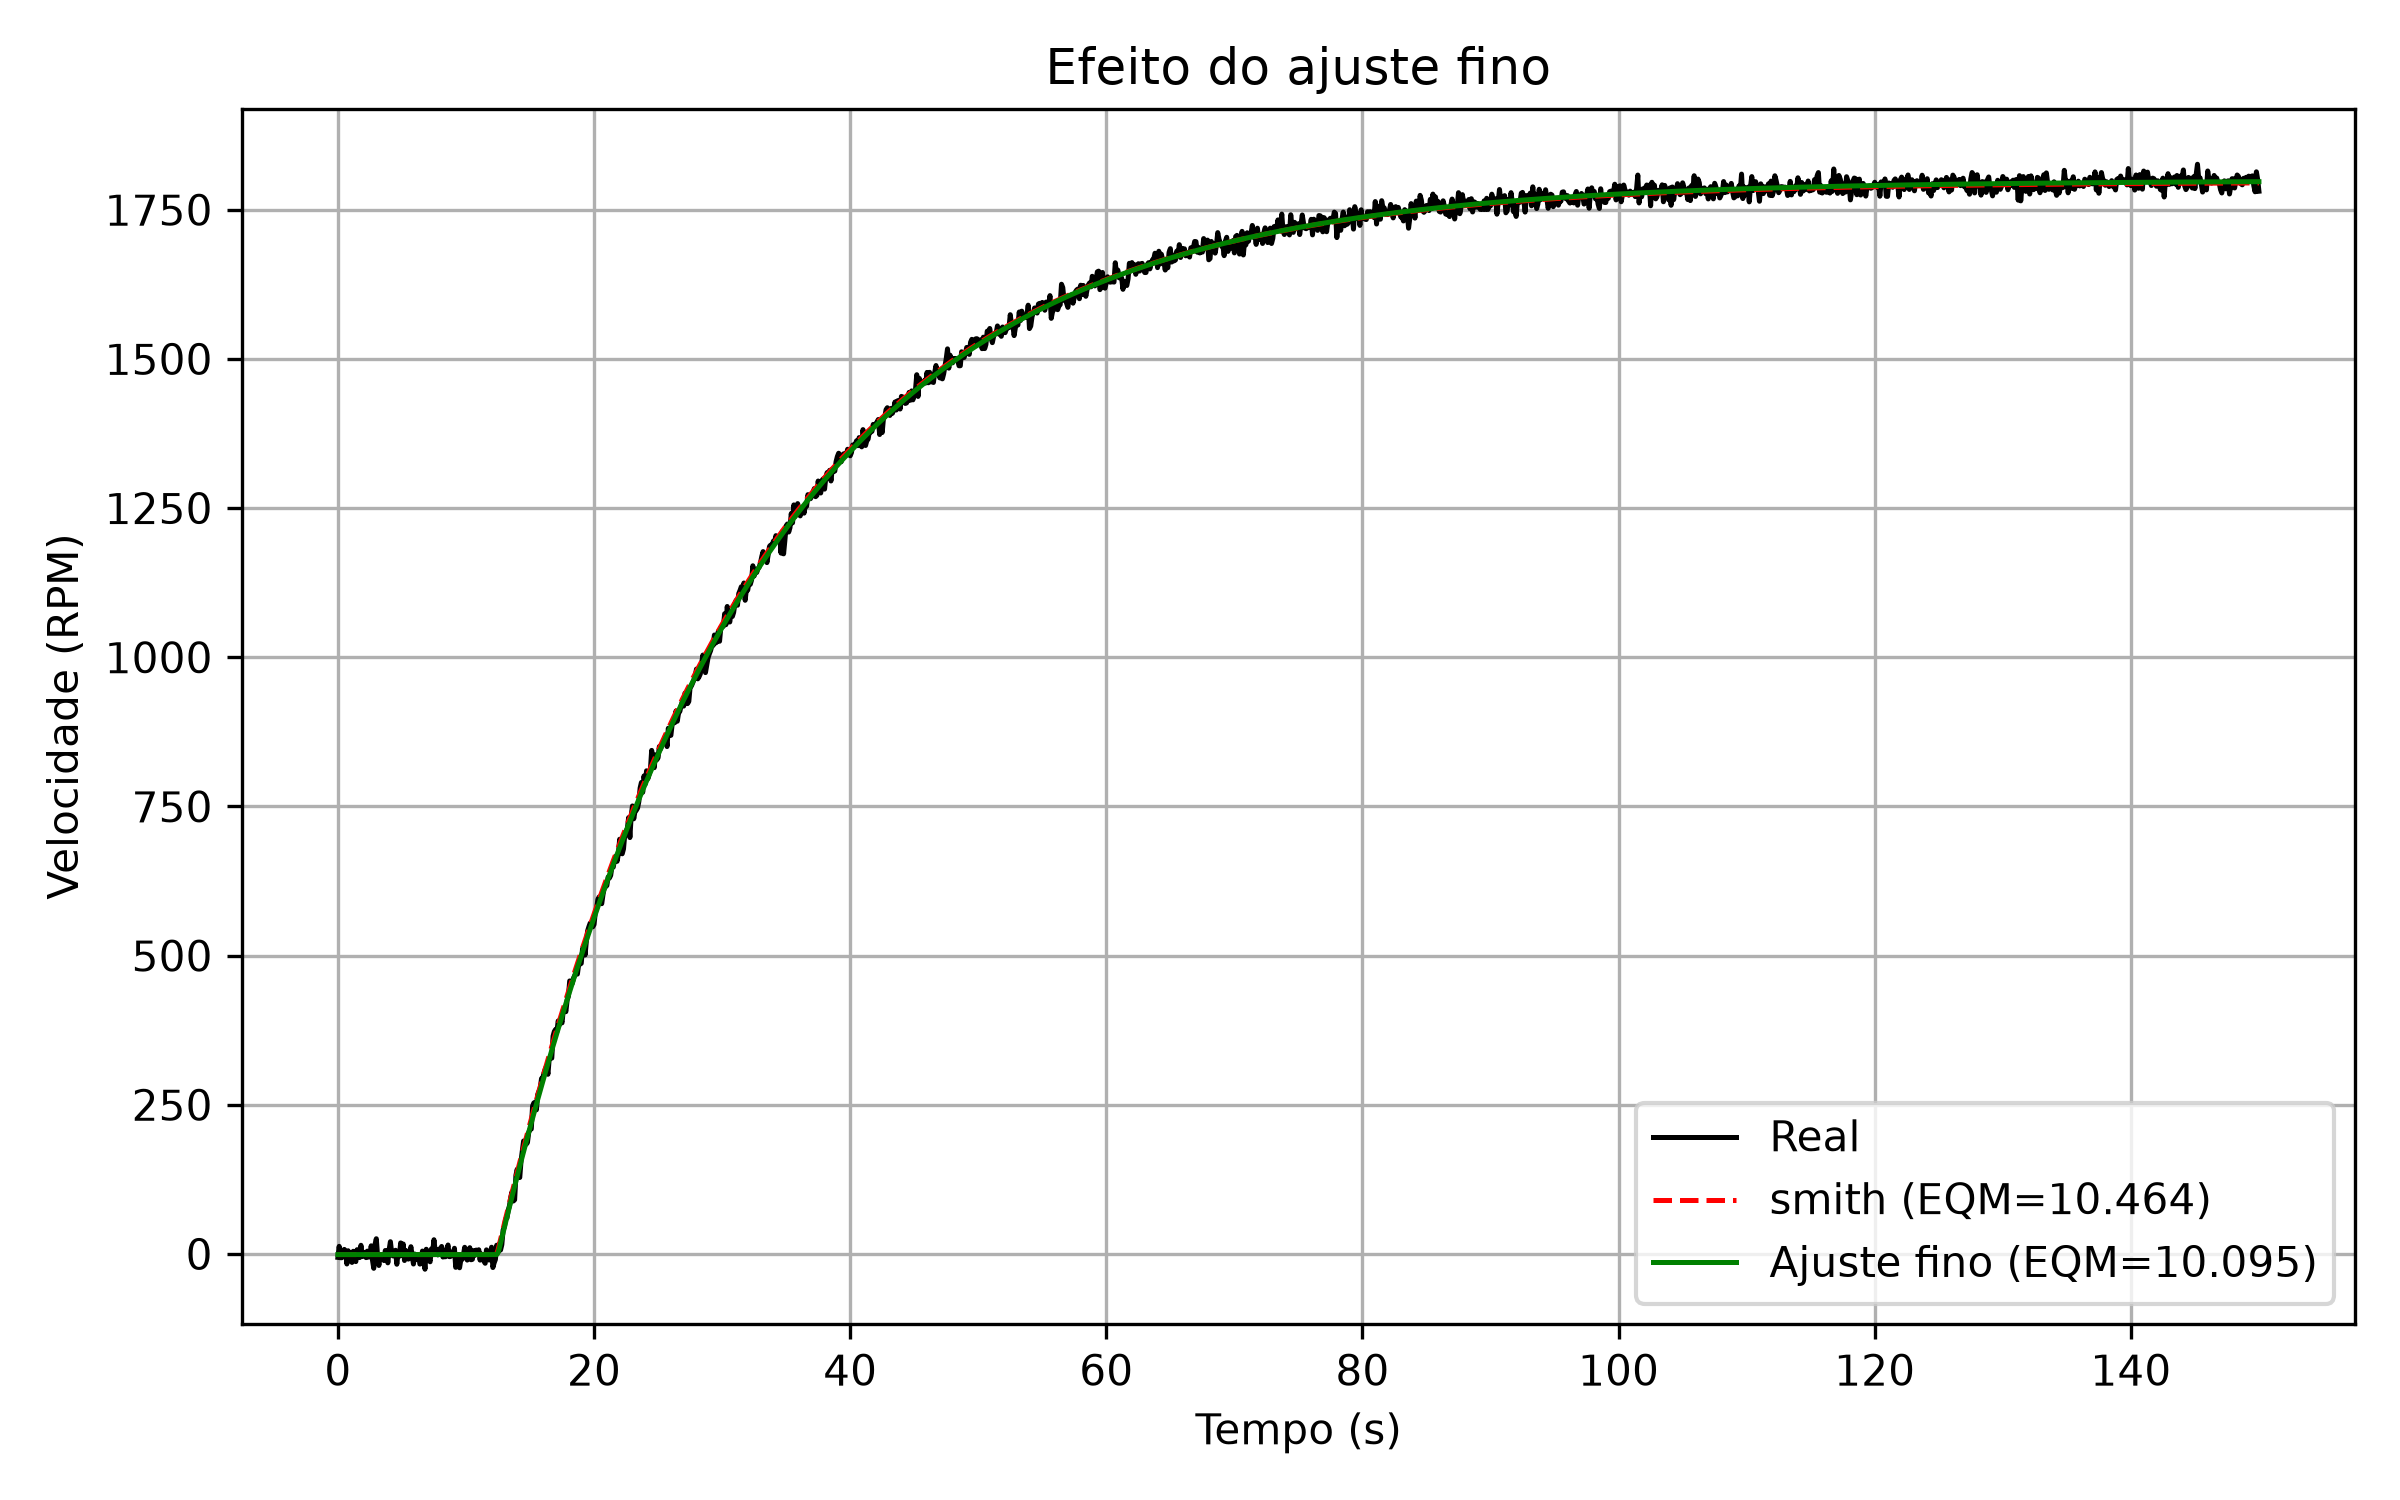
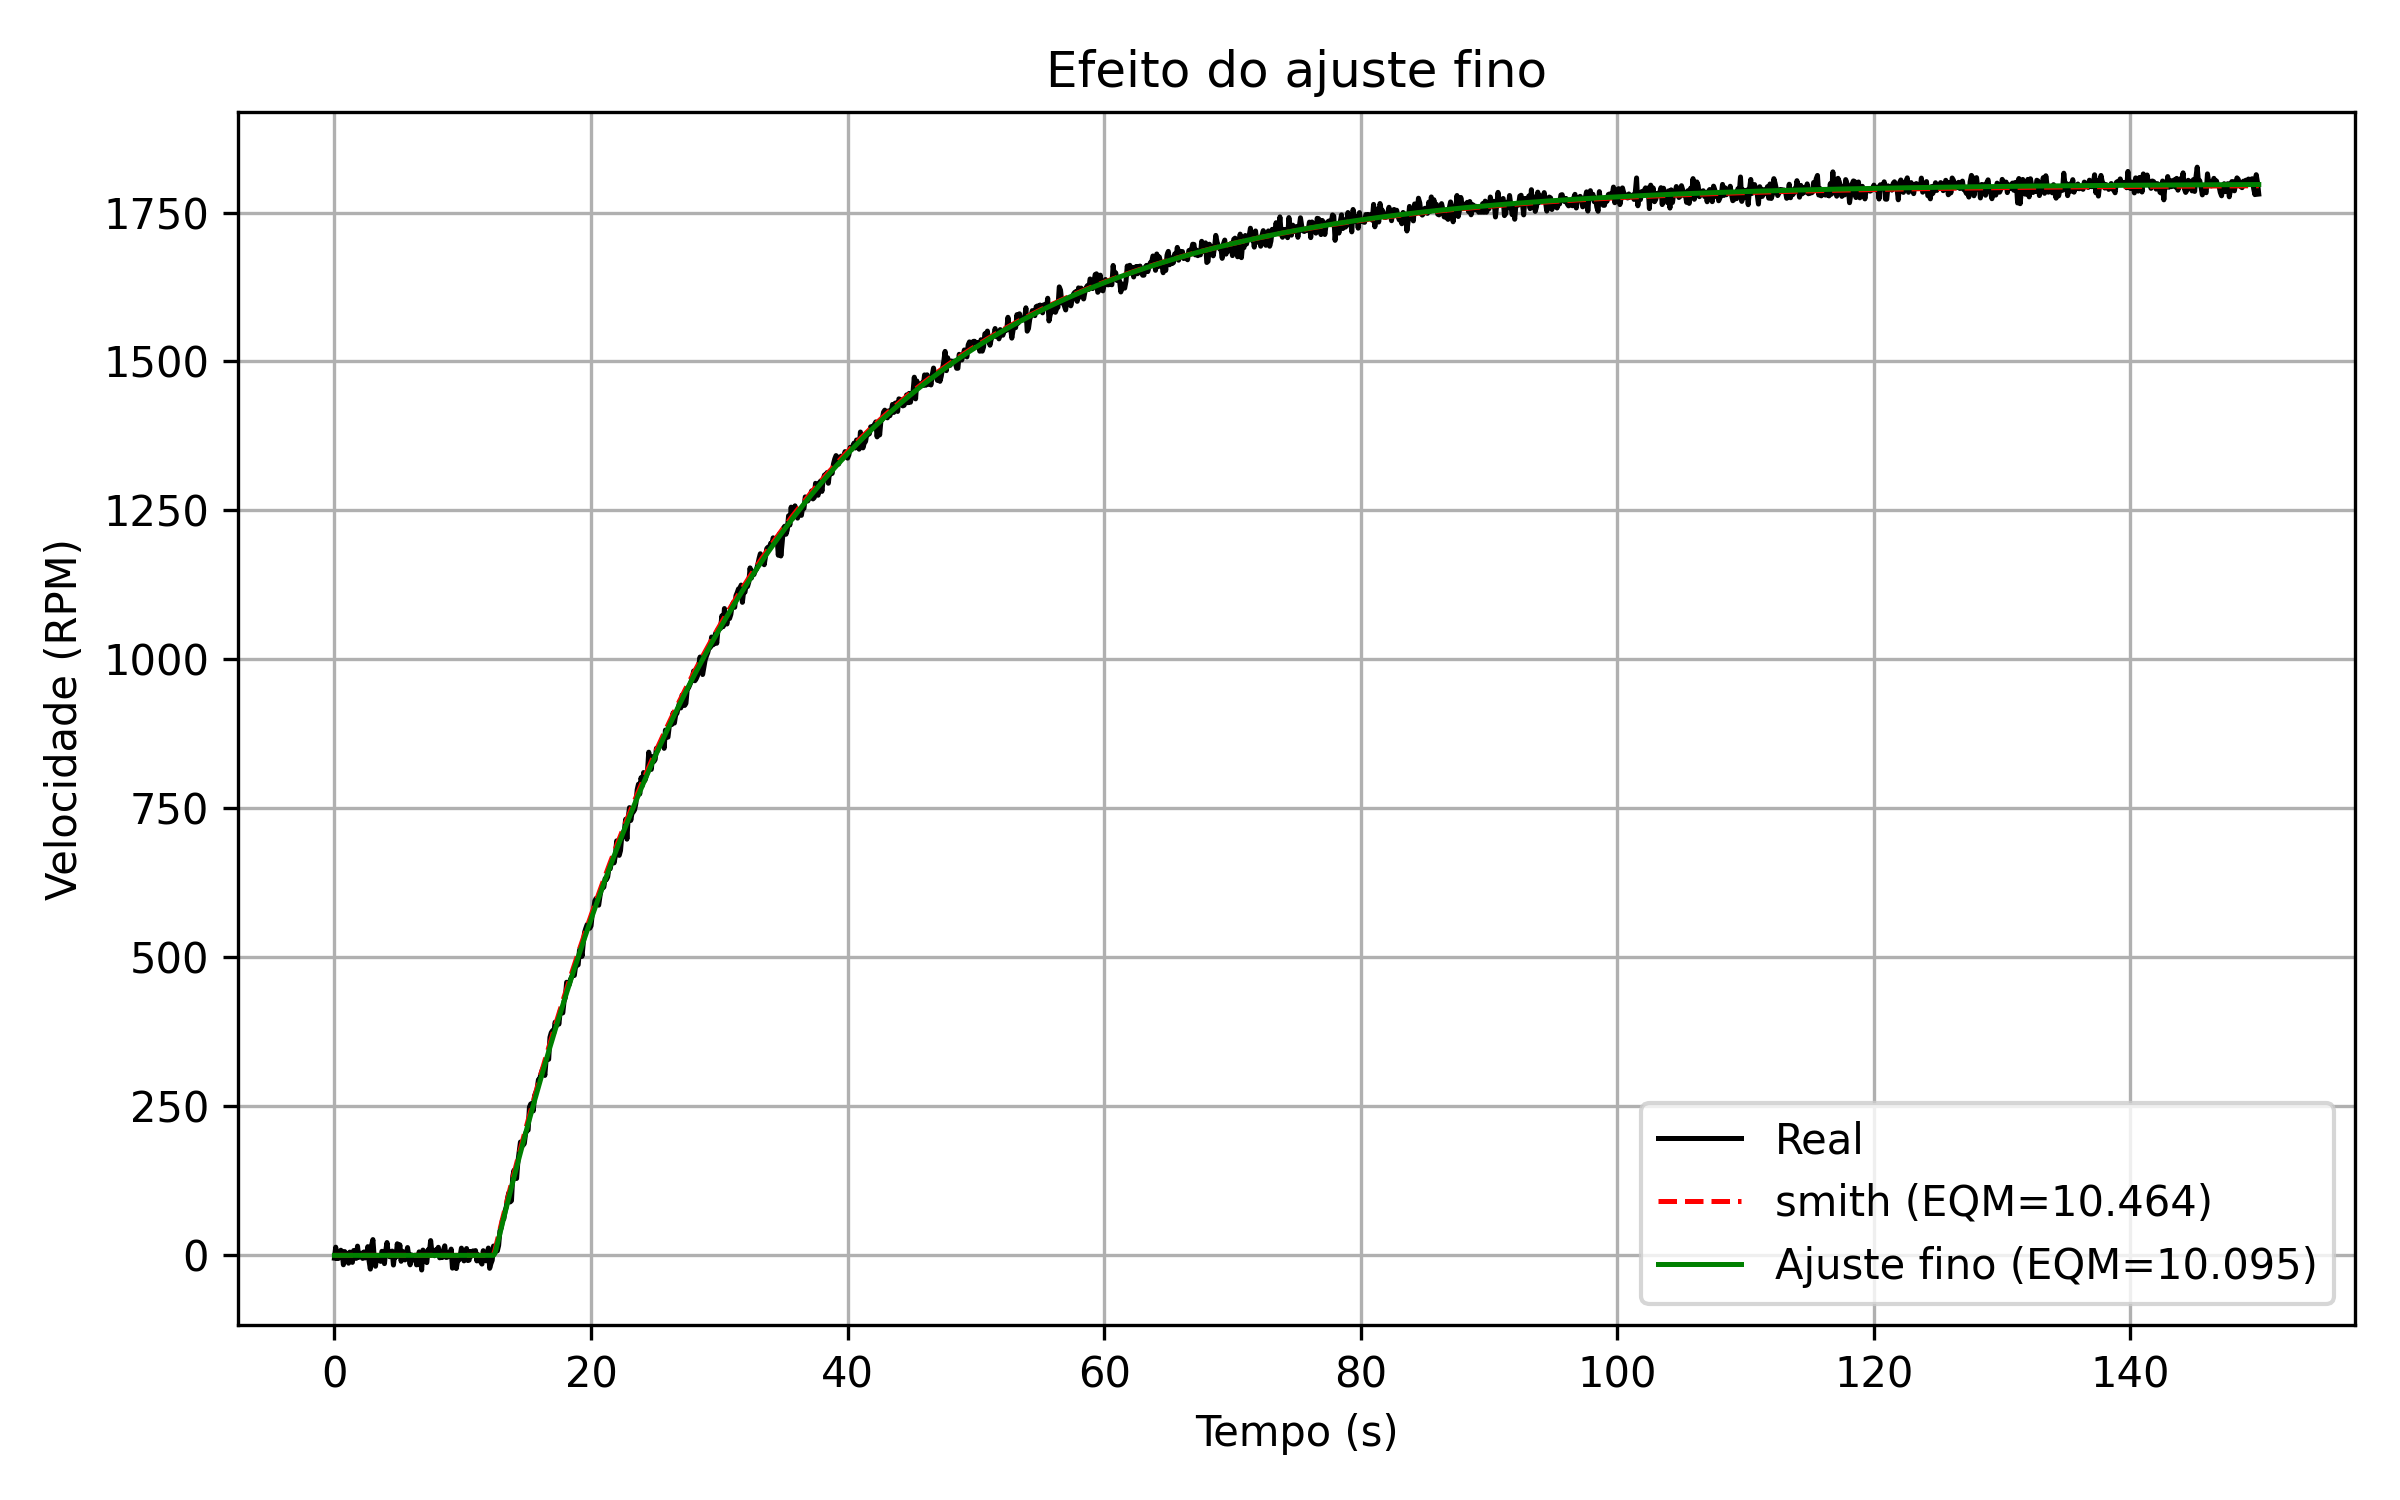
feat: adiciona comparacao dos modelos de identificacao

diff --git a/identificação/main_indentificacao.py b/identificação/main_indentificacao.py
@@ -9,7 +9,7 @@ import sys
 sys.stdout.reconfigure(encoding="utf-8")
 
 # %% Carregar dataset 
-dados = loadmat("Motor_G2.mat")
+dados = loadmat("dataset/Motor_G2.mat")
 tempo = dados["t"].ravel()
 entrada = dados["Degrau"].ravel()
 saida = dados["Saida"].ravel()
@@ -61,7 +61,7 @@ modelo = {
     "eqm": melhor.eqm, "fator_incontrolabilidade": melhor.fator,
     "ajustado": {"k": k_aj, "tau": tau_aj, "theta": theta_aj, "eqm": float(res.fun)},
 }
-with open("modelo_identificado.json", "w", encoding="utf-8") as f:
+with open("identificação/modelo_identificado.json", "w", encoding="utf-8") as f:
     json.dump(modelo, f, indent=2, ensure_ascii=False)
 
 plt.show()
